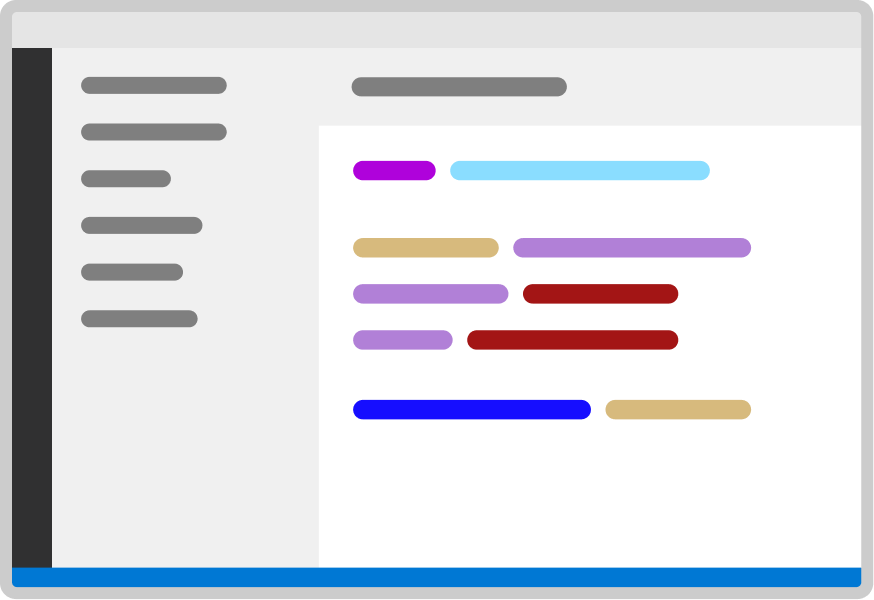
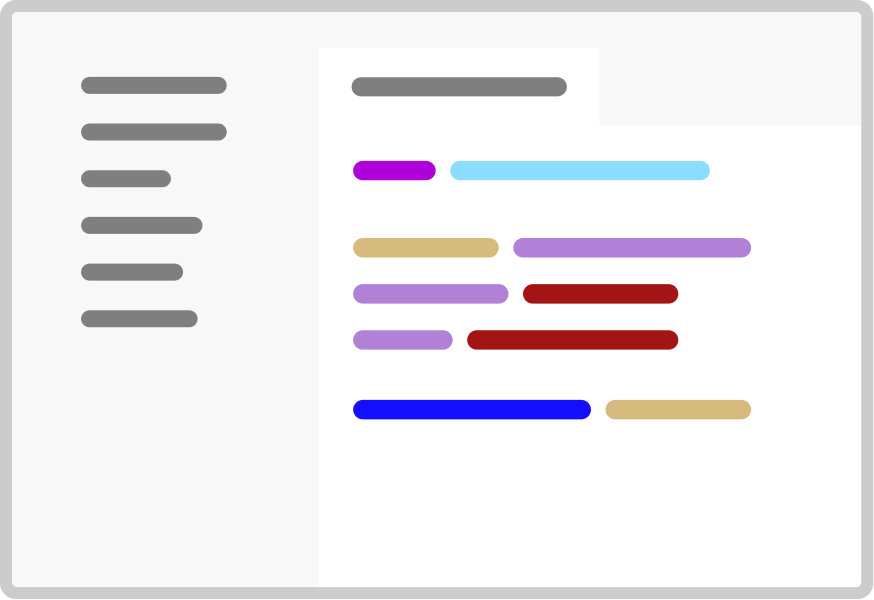
Update getting started theme picker images to reflect new themes (#180976)
* Update getting started theme picker assets to reflect new themes

* Update theme names

Changed region(s): [[0.0, 0.06, 0.9886, 0.99]]

diff --git a/src/vs/workbench/contrib/welcomeGettingStarted/common/media/theme_picker.ts b/src/vs/workbench/contrib/welcomeGettingStarted/common/media/theme_picker.ts
@@ -12,11 +12,11 @@ export default () => `
 	<div class="theme-picker-row">
 		<checkbox when-checked="setTheme:${ThemeSettingDefaults.COLOR_THEME_DARK}" checked-on="config.workbench.colorTheme == '${ThemeSettingDefaults.COLOR_THEME_DARK}'">
 			<img width="200" src="./dark.png"/>
-			${escape(localize('dark', "Dark"))}
+			${escape(localize('dark', "Dark Modern"))}
 		</checkbox>
 		<checkbox when-checked="setTheme:${ThemeSettingDefaults.COLOR_THEME_LIGHT}" checked-on="config.workbench.colorTheme == '${ThemeSettingDefaults.COLOR_THEME_LIGHT}'">
 			<img width="200" src="./light.png"/>
-			${escape(localize('light', "Light"))}
+			${escape(localize('light', "Light Modern"))}
 		</checkbox>
 	</div>
 	<div class="theme-picker-row">
